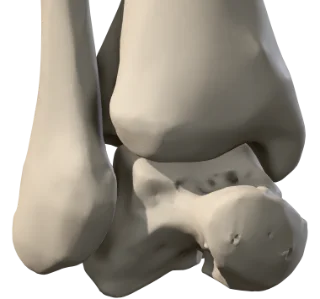
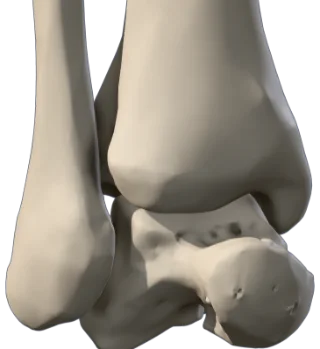
fix(landing): tint the fracture fragment and redraw the plate marks
Re-render the lateral still so the tint is the distal fibular fragment, clipped
along the drawn Weber B line, instead of ending at the plafond. The fracture is
now a slightly irregular 1.5px ink line that ends on the medial cortex; navy is
kept for the annotation bracket. Leaders share one 1px ink treatment, the
medial malleolus target moves onto the malleolus, the bone is larger with more
shaft above the fracture, and a faint silhouette rule keeps the bone off the
paper in dark mode. Labels no longer touch the card edge on phones.

diff --git a/frontend/src/components/AnklePlate.tsx b/frontend/src/components/AnklePlate.tsx
@@ -5,21 +5,23 @@ import lateral320 from '@/assets/landing/ankle-lateral-320.webp';
 import lateral640 from '@/assets/landing/ankle-lateral-640.webp';
 
 // Pre-rendered stills of the BodyParts3D right ankle the classifier draws (credited in the
-// figure's sources and in NOTICE): anterolateral view, yaw 35°, pitch 8°. The second still adds
-// the lateral malleolus tint. Marks below are in the stills' pixel space, 1520 x 1420.
-const IMG = { w: 1520, h: 1420 };
-const SIZES = '(min-width: 640px) 16rem, 40vw';
+// figure's sources and in NOTICE): anterolateral view, yaw 35°, pitch 8°. The second still tints
+// the distal fibular fragment up to FRACTURE. Marks below are in the stills' pixel space.
+const IMG = { w: 1460, h: 1593 };
+const SIZES = '(min-width: 640px) 18rem, 45vw';
 const srcSet = (a: string, b: string) => `${a} 320w, ${b} 640w`;
 
 // Syndesmosis: from the tibial plafond up to the top of the tibiofibular contact (23 mm).
-const SYND = { top: 217, bottom: 685, x: 110 };
-const BRACKET = `M${SYND.x + 18},${SYND.top} H${SYND.x} V${SYND.bottom} H${SYND.x + 18} M0,451 H${SYND.x}`;
-// Weber B spiral line on the fibula: low anterior (at the plafond) to high posterior.
-const FRACTURE = 'M492,640 C430,600 300,470 196,318';
+const SYND = { top: 420, bottom: 888, x: 80 };
+const BRACKET = `M${SYND.x + 18},${SYND.top} H${SYND.x} V${SYND.bottom} H${SYND.x + 18} M0,654 H${SYND.x}`;
+// Weber B spiral, from the medial cortex at the plafond (anteroinferior) to the lateral cortex
+// about 18 mm up (posterosuperior). The same points clip the tint in the lateral still.
+const FRACTURE =
+  'M465,853 L438,831 L404,799 L376,766 L349,739 L322,702 L291,667 L263,629 L236,599 L211,569 L186,546 L158,519';
 
 // Leader targets: [x, y] on the still.
-const LEFT = { fibula: [309, 142], syndesmosis: [SYND.x, 451], lateral: [250, 1000] } as const;
-const RIGHT = { tibia: [930, 200], medial: [1395, 600], talus: [1110, 1120] } as const;
+const LEFT = { fibula: [275, 203], syndesmosis: [SYND.x, 654], lateral: [220, 1203] } as const;
+const RIGHT = { tibia: [910, 263], medial: [1330, 953], talus: [1080, 1323] } as const;
 
 const at = (ms: number) => ({ '--at': `${ms}ms` }) as React.CSSProperties;
 const top = (y: number) => ({ top: `${(y / IMG.h) * 100}%` });
@@ -27,7 +29,7 @@ const top = (y: number) => ({ top: `${(y / IMG.h) * 100}%` });
 /** StepBadge numbers an answer and its mark on the plate; it fills in when that answer lands. */
 export function StepBadge({ n, atMs }: { n: number; atMs: number }) {
   return (
-    <span className="relative inline-grid size-5 shrink-0 place-items-center border border-field-ink/40 text-xs font-semibold tabular-nums text-sheet-muted">
+    <span className="relative inline-grid size-[18px] shrink-0 place-items-center border border-field-ink/40 text-xs font-semibold tabular-nums text-sheet-muted sm:size-5">
       {n}
       <span aria-hidden className="fig-in absolute -inset-px grid place-items-center bg-field-ink text-sheet" style={at(atMs)}>
         {n}
@@ -39,16 +41,17 @@ export function StepBadge({ n, atMs }: { n: number; atMs: number }) {
 /** AnklePlate is the rendered ankle of the landing figure; it marks answers 1 and 2 as they land. */
 export function AnklePlate({ lateralAt, levelAt }: { lateralAt: number; levelAt: number }) {
   const { t } = useTranslation();
-  const leftLabel = 'absolute right-2 flex -translate-y-1/2 items-center gap-1.5 text-right';
-  const rightLabel = 'absolute left-2 -translate-y-1/2';
+  const leftLabel = 'absolute right-1 flex -translate-y-1/2 items-center gap-1 text-right sm:right-2 sm:gap-1.5';
+  const rightLabel = 'absolute left-1 -translate-y-1/2 sm:left-2';
   const leaders = [
-    ...Object.values(LEFT).filter(([x]) => x !== SYND.x).map(([x, y]) => `M0,${y} H${x}`),
+    ...[LEFT.fibula, LEFT.lateral].map(([x, y]) => `M0,${y} H${x}`),
     ...Object.values(RIGHT).map(([x, y]) => `M${IMG.w},${y} H${x}`),
   ].join(' ');
   const dots = [LEFT.fibula, LEFT.lateral, ...Object.values(RIGHT)];
+  const image = { sizes: SIZES, width: IMG.w, height: IMG.h, alt: '' };
 
   return (
-    <div className="landing-plate grid grid-cols-[minmax(0,1fr)_minmax(0,1.45fr)_minmax(0,1fr)] text-xs leading-tight text-sheet-ink sm:grid-cols-[minmax(0,1fr)_minmax(0,1.6fr)_minmax(0,1fr)] sm:text-sm">
+    <div className="grid grid-cols-[minmax(0,1fr)_minmax(0,1.6fr)_minmax(0,0.9fr)] text-xs leading-tight text-sheet-ink sm:grid-cols-[minmax(0,1fr)_minmax(0,2fr)_minmax(0,0.8fr)] sm:text-[15px]">
       <div className="relative">
         <span className={leftLabel} style={top(LEFT.fibula[1])}>{t('landing.figure.fibula')}</span>
         <span className={leftLabel} style={top(LEFT.syndesmosis[1])}>
@@ -62,24 +65,11 @@ export function AnklePlate({ lateralAt, levelAt }: { lateralAt: number; levelAt:
       </div>
 
       <div className="relative">
+        <img {...image} src={ankle640} srcSet={srcSet(ankle320, ankle640)} fetchPriority="high" data-plate-image className="block h-auto w-full" />
         <img
-          src={ankle640}
-          srcSet={srcSet(ankle320, ankle640)}
-          sizes={SIZES}
-          width={IMG.w}
-          height={IMG.h}
-          alt=""
-          fetchPriority="high"
-          data-plate-image
-          className="block h-auto w-full"
-        />
-        <img
+          {...image}
           src={lateral640}
           srcSet={srcSet(lateral320, lateral640)}
-          sizes={SIZES}
-          width={IMG.w}
-          height={IMG.h}
-          alt=""
           className="fig-in absolute inset-0 block h-auto w-full"
           style={at(lateralAt)}
         />
@@ -92,21 +82,17 @@ export function AnklePlate({ lateralAt, levelAt }: { lateralAt: number; levelAt:
           strokeLinecap="round"
           strokeLinejoin="round"
         >
-          {/* A paper halo under each leader keeps it legible where it crosses bone. */}
-          <path d={leaders} className="stroke-(--plate-halo)" strokeWidth="3.5" vectorEffect="non-scaling-stroke" />
-          <path d={leaders} className="stroke-(--bone-line)" strokeWidth="1" vectorEffect="non-scaling-stroke" />
-
-          {/* 2: the level, then the fracture line along its length. */}
-          <path d={BRACKET} className="stroke-(--bone-line)" strokeWidth="1" vectorEffect="non-scaling-stroke" />
-          <path d={BRACKET} className="fig-in stroke-(--hl)" strokeWidth="1.75" vectorEffect="non-scaling-stroke" style={at(levelAt)} />
-          <path d={FRACTURE} pathLength={1} className="fig-draw stroke-(--plate-halo)" strokeWidth="5" vectorEffect="non-scaling-stroke" style={at(levelAt + 60)} />
-          <path d={FRACTURE} pathLength={1} className="fig-draw stroke-(--hl)" strokeWidth="2.25" vectorEffect="non-scaling-stroke" style={at(levelAt + 60)} />
-
-          <g className="fill-(--sheet-ink) stroke-(--plate-halo)" strokeWidth="1.5">
+          <path d={leaders} className="stroke-(--sheet-ink)" strokeWidth="1" vectorEffect="non-scaling-stroke" />
+          <g className="fill-(--sheet-ink)">
             {dots.map(([x, y]) => (
               <circle key={`${x},${y}`} cx={x} cy={y} r="16" />
             ))}
           </g>
+
+          {/* 2: the level in annotation navy, then the fracture itself in ink along its length. */}
+          <path d={BRACKET} className="stroke-(--bone-line)" strokeWidth="1" vectorEffect="non-scaling-stroke" />
+          <path d={BRACKET} className="fig-in stroke-(--hl)" strokeWidth="1.5" vectorEffect="non-scaling-stroke" style={at(levelAt)} />
+          <path d={FRACTURE} pathLength={1} className="fig-draw stroke-(--sheet-ink)" strokeWidth="1.5" vectorEffect="non-scaling-stroke" style={at(levelAt + 60)} />
         </svg>
       </div>
 

diff --git a/frontend/src/index.css b/frontend/src/index.css
@@ -318,13 +318,8 @@
   --field-navy: oklch(0.22 0.065 262);
 }
 
-/* Landing hero plate: a paper halo under the marks that cross the rendered bone. */
-.landing-plate {
-  --plate-halo: var(--sheet);
-}
-
-/* The hero figure's entrance waits for the font and the plate image (LandingPage.tsx), so it
-   never plays against a fallback face or an empty plate. */
+/* The plate's marks wait for the font and the plate image (LandingPage.tsx), so they never land
+   on a fallback face or an empty plate. */
 [data-landing-figure]:not([data-ready]) :is(.fig-in, .fig-draw) {
   animation-play-state: paused;
 }
